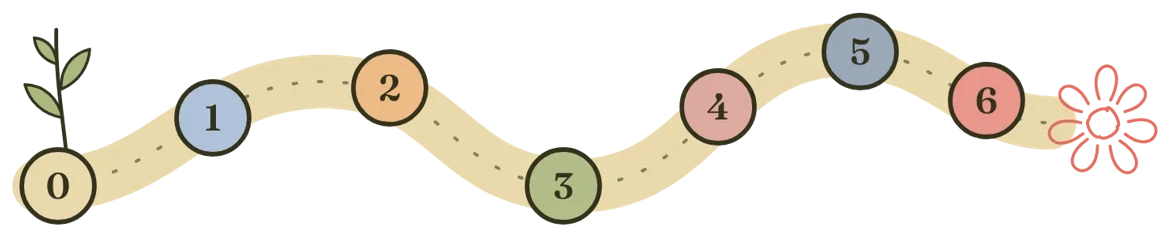
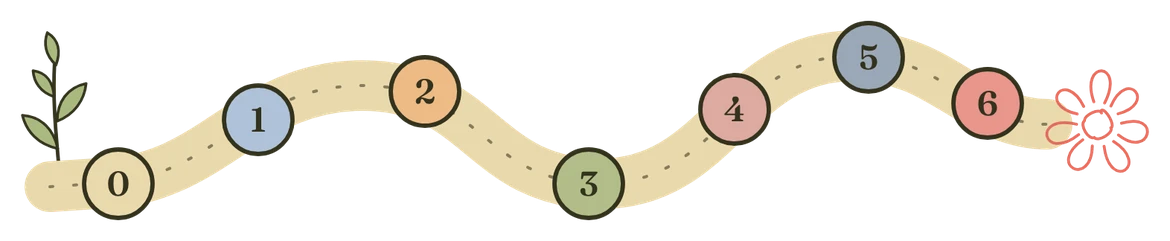
Mental Léger : nouvelles images (10 cartes, phrases prêtes, boîte à outils, chemin) et textes de l'appli sur /mental-leger/suite/
Paquet mental-leger-page-de-vente : seules les vraies nouveautés sont reprises.
- 4 aperçus remplacés : page-66 (10 cartes), page-35 (phrases prêtes), v4-65
  (« Quand mes sens saturent »), le-chemin (pivoine à sept pétales, hauteur 241).
- /mental-leger/suite/ : « marque-page dans ta poche » et deux réponses de la FAQ.
- Non repris : les textes de /ecriture/ du paquet (version antérieure au 11 octobre)
  et « Page 23 » (la semaine 2 commence page 24).

Claude-Session: https://claude.ai/code/session_01PdjEtzepz18n7ktGLVAJPt

Changed region(s): [[0.0, 0.0591, 1.0, 0.9451]]

diff --git a/source/mental-leger/suite/index.html b/source/mental-leger/suite/index.html
@@ -428,7 +428,7 @@ footer.site a:hover{color:var(--peony-d)!important}
       <div class="kick">Puis, à ton rythme</div>
       <h2>Quatre semaines encore</h2>
     </div>
-    <img class="path-ill rv" src="/assets/landing/mental-leger/3c90950525.webp" width="1170" height="237" alt="Un chemin de sept pierres numérotées de 0 à 6, qui mène à une pivoine." style="margin-top:26px">
+    <img class="path-ill rv" src="/assets/landing/mental-leger/3c90950525.webp" width="1170" height="241" alt="Un chemin de sept pierres numérotées de 0 à 6, qui mène à une pivoine." style="margin-top:26px">
     <ol class="weeks rv">
       <li style="--c:var(--sage)"><span class="num">3</span><div><b>Protéger mon énergie</b><span class="d">Remarquer ce qui te vide, et ce qui te fait du bien.</span></div><span class="ex">tes phrases prêtes, pour la visio de 18 h</span></li>
       <li style="--c:var(--dusty)"><span class="num">4</span><div><b>Cultiver l’auto-compassion</b><span class="d">Te parler comme tu parlerais à une amie.</span></div><span class="ex">une lettre, signée « Ton amie intérieure »</span></li>
@@ -460,7 +460,7 @@ footer.site a:hover{color:var(--peony-d)!important}
     <div>
       <div class="kick">Et dans ta poche</div>
       <h2>L’appli compagnon <span class="pill">incluse</span></h2>
-      <p class="lead" style="margin-top:16px">Tes pages restent sur papier ou dans ton PDF. L’appli garde le reste, et elle te reprend exactement où tu en es.</p>
+      <p class="lead" style="margin-top:16px">C’est un marque-page dans ta poche : il te dit quelle page ouvrir, puis tu le poses. Tes pages restent sur papier ou dans ton PDF. L’appli garde le reste, et elle te reprend exactement où tu en es.</p>
       <ul class="feat">
[2 lines of base64/hex data omitted]
@@ -540,8 +540,8 @@ footer.site a:hover{color:var(--peony-d)!important}
     <details><summary>Comment savoir si ça me fait du bien ?</summary><p>Relis tes petites lignes de fin, « Ce qui s’est apaisé, même un peu ». Si l’une d’elles te parle, la suite aussi, sans doute. Si aucune ne te parle, garde ta semaine offerte, elle est à toi.</p></details>
     <details><summary>Je vais abandonner à la deuxième semaine, comme d’habitude.</summary><p>Peut-être. Et le programme t’attendra. Il ne se périme pas.</p></details>
     <details><summary>Est-ce que je dois tout réimprimer ?</summary><p>Non. Imprime à partir de la page 24, la semaine 2. Et les pages de la boîte à outils quand tu en as envie.</p></details>
-    <details><summary>C’est quoi, l’appli ?</summary><p>Un petit compagnon pour ton téléphone, ta tablette ou ton ordinateur : la page du jour, ta météo, ton jardin de pivoines, ta boîte à outils<span class="si-audio"> et mes mots de la semaine à écouter</span>. Tu écris toujours sur papier ou dans le PDF. Elle s’ouvre dans ton navigateur, sans compte, et rien de ce que tu fais n’est envoyé nulle part.</p></details>
-    <details><summary>Je préfère écrire loin de mon téléphone.</summary><p>Tu as raison : dans « Mon petit kit », le téléphone est posé plus loin. L’appli marche aussi sur une tablette ou un ordinateur : ouvre ton lien dans le navigateur, et ajoute-le à ton écran d’accueil ou à tes favoris. Choisis un seul appareil pour l’appli : tes pivoines et ta météo restent sur celui-là. Et si tu n’en veux pas du tout, le programme se suit très bien sans.</p></details>
+    <details><summary>C’est quoi, l’appli ?</summary><p>Un petit compagnon pour ton téléphone, ta tablette ou ton ordinateur : la page du jour, ta météo, ton jardin de pivoines, ta boîte à outils<span class="si-audio"> et mes mots de la semaine à écouter</span>. Tu l’ouvres, tu vois ta page, tu la poses : tu écris toujours sur papier ou dans le PDF. Elle s’ouvre dans ton navigateur, sans compte, et rien de ce que tu fais n’est envoyé nulle part.</p></details>
+    <details><summary>Je préfère écrire loin de mon téléphone.</summary><p>Tu as raison, et moi aussi : dans « Mon petit kit », le téléphone est posé plus loin. L’appli te dit quelle page ouvrir, puis elle te le rappelle : « Maintenant, pose ton téléphone. » Elle marche aussi sur une tablette ou un ordinateur : ouvre ton lien dans le navigateur, et ajoute-le à ton écran d’accueil ou à tes favoris. Choisis un seul appareil pour l’appli : tes pivoines et ta météo restent sur celui-là. Et si tu n’en veux pas du tout, le programme se suit très bien sans.</p></details>
     <details class="si-audio"><summary>Les mots de la semaine, je les lis ou je les écoute ?</summary><p>Comme tu préfères. Ils sont écrits dans l’appli, et tu peux aussi les écouter, avec ma vraie voix.</p></details>
     <details><summary>Est-ce que ça remplace un psy ?</summary><p>Non. Un professionnel reste un professionnel, et ce programme ne prend pas sa place.</p></details>
     <details><summary>Est-ce que quelqu’un lit ce que j’écris ?</summary><p>Personne. C’est à toi, rien qu’à toi.</p></details>

diff --git a/source/ecriture/index.html b/source/ecriture/index.html
@@ -454,7 +454,7 @@ footer.site a:hover{color:var(--peony-d)!important}
       <h2>Six semaines, une marche à la fois</h2>
       <p class="lead" style="margin-top:14px">Tu ne choisis pas quoi faire chaque jour. Tu ouvres la page du jour.</p>
     </div>
-    <img class="path-ill rv" src="/assets/landing/mental-leger/3c90950525.webp" width="1170" height="237" alt="Un chemin de sept pierres numérotées de 0 à 6, qui mène à une pivoine.">
+    <img class="path-ill rv" src="/assets/landing/mental-leger/3c90950525.webp" width="1170" height="241" alt="Un chemin de sept pierres numérotées de 0 à 6, qui mène à une pivoine.">
     <ol class="weeks rv">
       <li style="--c:var(--sand)"><span class="num">0</span><div><b>S’installer</b><span class="d">Te préparer une place : ton coin, ton petit kit, ce que tu portes en arrivant.</span></div><span class="ex">un thé, un stylo, et c’est déjà bien</span></li>
       <li style="--c:var(--blue)"><span class="num">1</span><div><b>Vider pour respirer</b><span class="d">Poser sur la page ce qui tourne dans ta tête.</span></div><span class="ex">jour 1 : le vidage, dix minutes</span></li>
